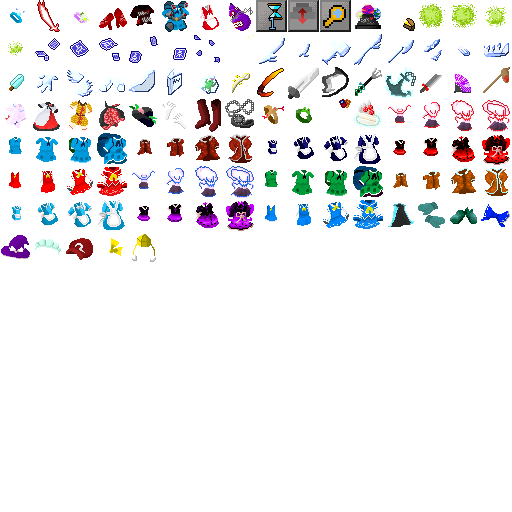
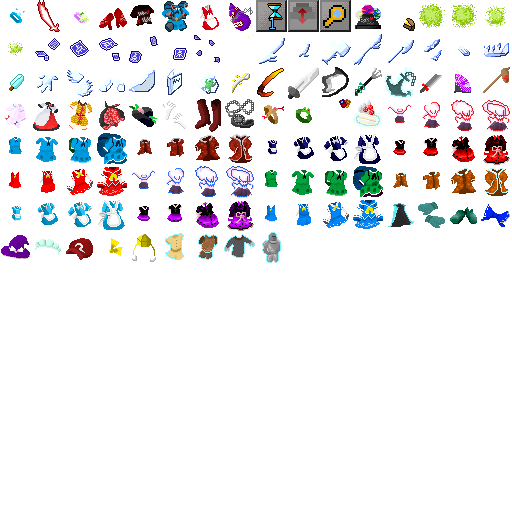
patch note ver 1.301
some balancing

Changed region(s): [[0.3125, 0.4375, 0.5625, 0.5312]]

diff --git a/th_crawl/texture.cpp b/th_crawl/texture.cpp
@@ -1690,6 +1690,10 @@ textures img_item_artifact_armor_helmet[6] = {
 	textures(&texture_item04, 115, 255),
 	textures(&texture_item04, 116, 255)
 };
+textures img_item_artifact_armor_armour_0(&texture_item04, 117, 255);
+textures img_item_artifact_armor_armour_1(&texture_item04, 118, 255);
+textures img_item_artifact_armor_armour_2(&texture_item04, 119, 255);
+textures img_item_artifact_armor_armour_3(&texture_item04, 120, 255);
 
 textures img_item_autumn_armour[] =
 {	
@@ -4693,6 +4697,14 @@ int texturetoint(textures* input)
 		return 841;
 	else if(input == &img_play_item_artifact_hat[5])
 		return 842;
+	else if(input == &img_item_artifact_armor_armour_0)
+		return 843;
+	else if(input == &img_item_artifact_armor_armour_1)
+		return 844;
+	else if(input == &img_item_artifact_armor_armour_2)
+		return 845;
+	else if(input == &img_item_artifact_armor_armour_3)
+		return 846;
 	else
 	{
 		for (int i = 0; i < STYLE_NUM; i++)
@@ -6404,6 +6416,14 @@ textures* inttotexture(int input)
 		return &img_play_item_artifact_hat[4];
 	case 842:
 		return &img_play_item_artifact_hat[5];
+	case 843:
+		return &img_item_artifact_armor_armour_0;
+	case 844:
+		return &img_item_artifact_armor_armour_1;
+	case 845:
+		return &img_item_artifact_armor_armour_2;
+	case 846:
+		return &img_item_artifact_armor_armour_3;
 	default:
 		return &img_mons_default;
 	}

diff --git a/th_crawl/atifact.cpp b/th_crawl/atifact.cpp
@@ -899,11 +899,17 @@ void MakeArtifact(item* item_, int good_bad_, bool cant_fixed)
 	if(item_->type >= ITM_ARMOR_BODY_FIRST && item_->type < ITM_ARMOR_BODY_LAST)
 	{
 		int armour_image_ = GetArmourImageIndex((armour_kind)item_->value5);
+		material_kind material_ = (material_kind)(item_->type-ITM_ARMOR_BODY_ARMOUR_0);
 		if(armour_image_ >= 0)
 		{
-			material_kind material_ = (material_kind)(item_->type-ITM_ARMOR_BODY_ARMOUR_0);
 			item_->image = &img_item_artifact_armor_special[armour_image_][material_];
 			item_->equip_image = &img_play_item_artifact_body[armour_image_];
+		}
+		else if((armour_kind)item_->value5 == AMK_NORMAL)
+		{
+			item_->image = material_ == MTK_PLATE ? &img_item_artifact_armor_armour_3 :
+				material_ == MTK_CHAIN ? &img_item_artifact_armor_armour_2 :
+				material_ == MTK_LEATHER ? &img_item_artifact_armor_armour_1 : &img_item_artifact_armor_armour_0;
 		}
 	}
 	else if(item_->type == ITM_ARMOR_CLOAK)

diff --git a/th_crawl/monster_texture.h b/th_crawl/monster_texture.h
@@ -378,6 +378,10 @@ extern textures img_item_armor_armour_0;
 extern textures img_item_armor_armour_1;
 extern textures img_item_armor_armour_2;
 extern textures img_item_armor_armour_3;
+extern textures img_item_artifact_armor_armour_0;
+extern textures img_item_artifact_armor_armour_1;
+extern textures img_item_artifact_armor_armour_2;
+extern textures img_item_artifact_armor_armour_3;
 extern textures img_item_armor_special[][4];
 extern textures img_item_artifact_armor_special[][4];
 extern textures img_item_artifact_armor_cloak;

diff --git a/th_crawl/event.cpp b/th_crawl/event.cpp
@@ -381,7 +381,7 @@ int EventOccur(int id, events* event_) //1이 적용하고 끝내기
 	return 0;
 	case EVL_SCARLET_UNDER:
 	{
-		scarlet_under_count(current_level, event_, DG_FLOOR, DG_RED_WALL, 5, 16, 3, 5000, 1500, 2, 100, 450, 15, 3);
+		scarlet_under_count(current_level, event_, DG_FLOOR, DG_RED_WALL, 5, 16, 3, 5000, 1500, 1, 100, 450, 15, 3);
 	}
 	return 0;
 	case EVL_SCARLET_UNDER_REWARD:

diff --git a/th_crawl/player.cpp b/th_crawl/player.cpp
@@ -7244,6 +7244,8 @@ bool players::unequip(equip_type type_, bool force_)
 				PlaceHolderHelper(equipment[type_]->GetName(), equipment[type_]->item_color()));
 		}
 		equipment[type_] = NULL;
+		if(GetArtifactProperty(ART_PERMAINVI) > 0)
+			s_invisible = -1;
 		ReSetASPanlty();
 		ReleaseMutex(mutx);
 		if(!force_)

diff --git a/th_crawl/spellcard.cpp b/th_crawl/spellcard.cpp
@@ -462,7 +462,7 @@ bool EvokeSpellcard(spellcard_evoke_type kind, bool short_, int power, coord_def
 				{
 					int turn_ = rand_int(3, 8) + randA(power_ / 5);
 					if(it->isUnique()) {
-						turn_ = max(1,turn_ / 2);
+						turn_ = max(1,turn_ / 3);
 					}
 					it->SetConfuse(turn_);
 				}

diff --git a/th_crawl/mainloop.cpp b/th_crawl/mainloop.cpp
@@ -45,7 +45,7 @@ extern bool ableWiz;
 
 extern HANDLE mutx;
 
-const char *version_string = "ver1.210";
+const char *version_string = "ver1.301";
 extern int g_tile_size;
 
 int version_string_to_int() {
